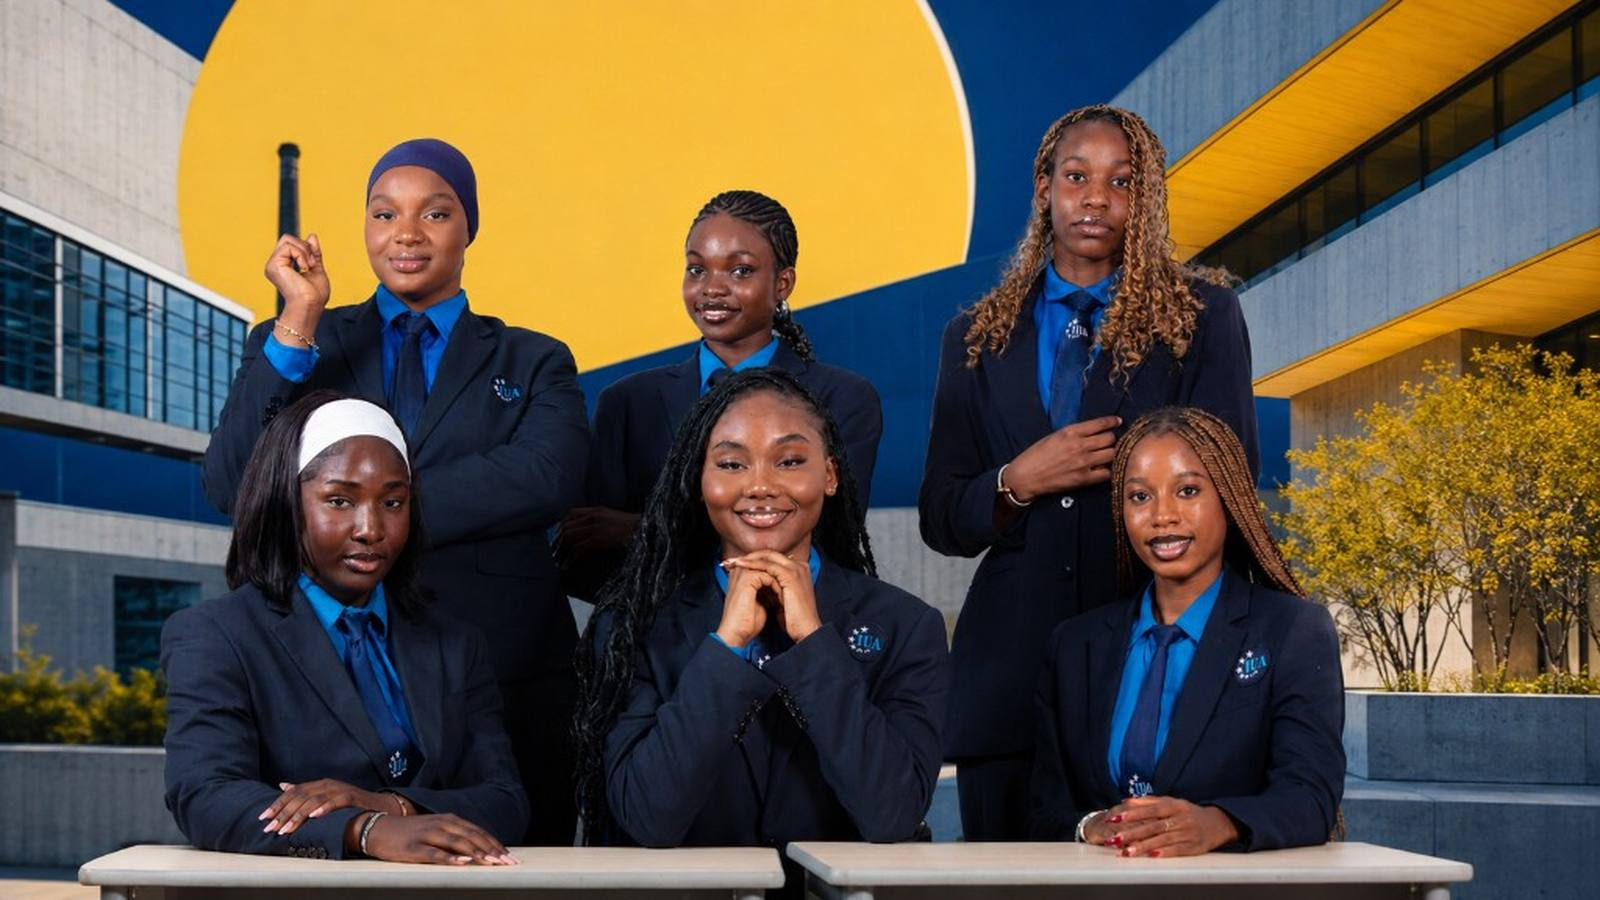
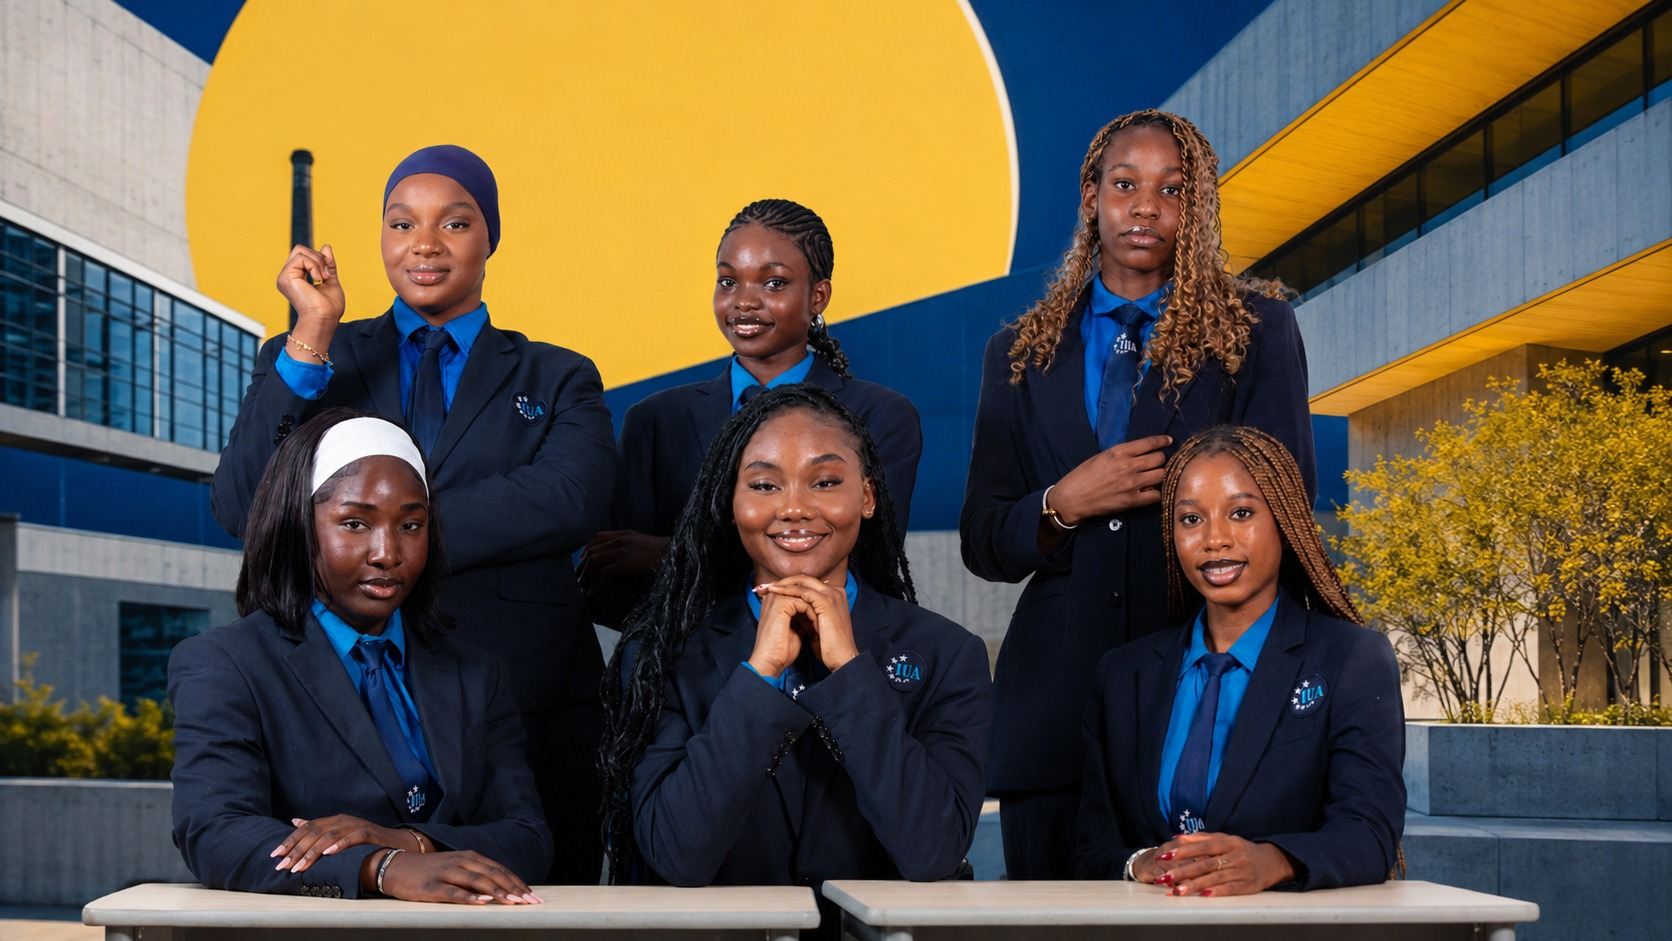
Ajout au read

diff --git a/frontend/src/app/page.tsx b/frontend/src/app/page.tsx
@@ -44,7 +44,7 @@ const ticker = [
 export default function HomePage() {
   return (
     <main>
-      <section className="relative min-h-[100svh] overflow-hidden text-white content-visibility-auto">
+      <section className="relative min-h-[100svh] overflow-hidden text-white">
         <Image
           src="/brand/campus-hero.jpg"
           alt="Étudiantes de l'Institut Universitaire d'Abidjan"
@@ -53,32 +53,32 @@ export default function HomePage() {
           fetchPriority="high"
           placeholder="blur"
           blurDataURL={CAMPUS_HERO_BLUR}
-          className="hero-kenburns object-cover object-[center_20%]"
-          sizes="100vw"
-          quality={65}
+          className="object-cover object-[center_18%]"
+          sizes="(max-width: 768px) 100vw, 100vw"
+          quality={90}
         />
-        <div className="absolute inset-0 bg-gradient-to-r from-iua-navy/93 via-iua-navy/78 to-iua-navy/30" />
-        <div className="absolute inset-0 bg-gradient-to-t from-iua-navy/75 via-transparent to-iua-navy/30" />
-        <div className="glow-orb pointer-events-none absolute -left-20 top-28 h-64 w-64 rounded-full bg-iua-cyan/25 blur-3xl" />
+        {/* Lighter overlay so the photo stays sharp and visible */}
+        <div className="absolute inset-0 bg-gradient-to-r from-iua-navy/80 via-iua-navy/55 to-iua-navy/25" />
+        <div className="absolute inset-0 bg-gradient-to-t from-iua-navy/70 via-transparent to-iua-navy/20" />
 
         <SiteHeader />
 
         <div className="relative mx-auto flex min-h-[100svh] max-w-6xl flex-col justify-end px-6 pb-16 pt-44 sm:justify-center sm:pb-24">
           <Image
-            src="/brand/logo-iua.png"
+            src="/brand/logo-iua-white.png"
             alt="IUA"
-            width={220}
-            height={84}
-            className="mb-8 h-14 w-auto brightness-0 invert sm:h-16 animate-[fadeUp_0.5s_ease_both]"
+            width={240}
+            height={210}
+            className="mb-8 h-16 w-auto sm:h-20 animate-[fadeUp_0.5s_ease_both]"
             priority
           />
           <p className="mb-4 text-xs uppercase tracking-[0.28em] text-iua-cyan animate-[fadeUp_0.55s_ease_both]">
             One University · One Digital Ecosystem
           </p>
-          <h1 className="max-w-2xl font-display text-4xl leading-[1.08] text-balance sm:text-6xl animate-[fadeUp_0.65s_ease_both]">
+          <h1 className="max-w-2xl font-display text-4xl leading-[1.08] text-balance drop-shadow-sm sm:text-6xl animate-[fadeUp_0.65s_ease_both]">
             L&apos;excellence commence avec vous
           </h1>
-          <p className="mt-5 max-w-lg text-base leading-relaxed text-white/80 sm:text-lg animate-[fadeUp_0.75s_ease_both]">
+          <p className="mt-5 max-w-lg text-base leading-relaxed text-white/85 sm:text-lg animate-[fadeUp_0.75s_ease_both]">
             Un seul portail pour candidater, étudier, payer et suivre votre parcours à
             l&apos;Institut Universitaire d&apos;Abidjan.
           </p>
@@ -93,7 +93,7 @@ export default function HomePage() {
             <Link
               href="/connexion"
               prefetch
-              className="rounded-md border border-white/35 bg-white/10 px-6 py-3 text-sm font-semibold text-white backdrop-blur transition hover:bg-white/20"
+              className="rounded-md border border-white/40 bg-white/10 px-6 py-3 text-sm font-semibold text-white backdrop-blur-sm transition hover:bg-white/20"
             >
               Accéder au Digital Campus
             </Link>
@@ -197,11 +197,11 @@ export default function HomePage() {
               src="/brand/campus-hero.jpg"
               alt="Étudiantes IUA"
               width={900}
-              height={640}
+              height={506}
               loading="lazy"
-              quality={60}
+              quality={85}
               sizes="(max-width: 1024px) 100vw, 45vw"
-              className="h-72 w-full object-cover object-top sm:h-80"
+              className="h-72 w-full object-cover object-[center_15%] sm:h-80"
             />
             <div className="absolute inset-x-0 bottom-0 bg-gradient-to-t from-iua-navy/80 to-transparent p-5">
               <p className="text-sm font-medium">Excellence · Professionnalisme · Abidjan</p>

diff --git a/frontend/src/lib/blur.ts b/frontend/src/lib/blur.ts
@@ -1,3 +1,3 @@
-/** Tiny LQIP for hero — keeps LCP fast without extra network roundtrip. */
+/** Tiny LQIP for hero — swapped instantly for the sharp image. */
 export const CAMPUS_HERO_BLUR =
[2 lines of base64/hex data omitted]

diff --git a/frontend/src/app/connexion/page.tsx b/frontend/src/app/connexion/page.tsx
@@ -46,18 +46,18 @@ export default function LoginPage() {
           priority
           placeholder="blur"
           blurDataURL={CAMPUS_HERO_BLUR}
-          quality={55}
-          className="object-cover opacity-45"
+          quality={85}
+          className="object-cover object-[center_18%] opacity-55"
           sizes="50vw"
         />
-        <div className="absolute inset-0 bg-gradient-to-t from-iua-navy via-iua-navy/70 to-iua-navy/40" />
+        <div className="absolute inset-0 bg-gradient-to-t from-iua-navy via-iua-navy/65 to-iua-navy/35" />
         <div className="relative flex h-full flex-col justify-between p-10 text-white">
           <Image
-            src="/brand/logo-iua.png"
+            src="/brand/logo-iua-white.png"
             alt="IUA"
             width={160}
-            height={60}
-            className="h-12 w-auto brightness-0 invert"
+            height={140}
+            className="h-14 w-auto"
             priority
           />
           <div className="animate-[fadeUp_0.5s_ease_both]">
@@ -79,7 +79,7 @@ export default function LoginPage() {
             ← Retour à l&apos;accueil
           </Link>
           <div className="mt-8 lg:hidden">
-            <Image src="/brand/logo-iua.png" alt="IUA" width={140} height={52} className="h-10 w-auto" />
+            <Image src="/brand/logo-iua.png" alt="IUA" width={140} height={120} className="h-12 w-auto" />
           </div>
           <h2 className="mt-6 font-display text-3xl text-iua-navy">Connexion</h2>
           <p className="mt-2 text-sm text-iua-muted">

diff --git a/frontend/src/components/SiteHeader.tsx b/frontend/src/components/SiteHeader.tsx
@@ -28,7 +28,7 @@ export function SiteHeader({ variant = "overlay" }: { variant?: "overlay" | "sol
 
   return (
     <header
-      className={`will-change-transform animate-[fadeUp_0.45s_ease_both] ${
+      className={`animate-[fadeUp_0.45s_ease_both] ${
         solid
           ? "fixed inset-x-0 top-0 z-40 border-b border-iua-navy/10 bg-white/95 shadow-soft backdrop-blur-md"
           : "absolute inset-x-0 top-0 z-40"
@@ -56,13 +56,11 @@ export function SiteHeader({ variant = "overlay" }: { variant?: "overlay" | "sol
       <div className="mx-auto flex max-w-6xl items-center justify-between gap-4 px-6 py-4">
         <Link href="/" className="group flex items-center gap-3">
           <Image
-            src="/brand/logo-iua.png"
+            src={solid ? "/brand/logo-iua.png" : "/brand/logo-iua-white.png"}
             alt="Institut Universitaire d'Abidjan"
-            width={148}
-            height={56}
-            className={`h-11 w-auto transition duration-300 group-hover:scale-[1.03] ${
-              solid ? "" : "brightness-0 invert"
-            }`}
+            width={160}
+            height={140}
+            className="h-11 w-auto transition duration-300 group-hover:scale-[1.03]"
             priority
           />
           <span

diff --git a/frontend/src/components/SiteFooter.tsx b/frontend/src/components/SiteFooter.tsx
@@ -7,11 +7,11 @@ export function SiteFooter() {
       <div className="mx-auto grid max-w-6xl gap-10 px-6 py-14 md:grid-cols-[1.2fr_1fr_1fr]">
         <div>
           <Image
-            src="/brand/logo-iua.png"
+            src="/brand/logo-iua-white.png"
             alt="IUA"
             width={140}
-            height={52}
-            className="h-10 w-auto brightness-0 invert"
+            height={120}
+            className="h-12 w-auto"
             loading="lazy"
           />
           <p className="mt-4 max-w-sm text-sm leading-relaxed text-white/65">

diff --git a/frontend/src/components/PortalShell.tsx b/frontend/src/components/PortalShell.tsx
@@ -58,7 +58,7 @@ export function PortalShell({
               {menuOpen ? "×" : "☰"}
             </button>
             <Link href="/" className="flex items-center gap-3">
-              <Image src="/brand/logo-iua.png" alt="IUA" width={112} height={42} className="h-9 w-auto" />
+              <Image src="/brand/logo-iua.png" alt="IUA" width={112} height={98} className="h-10 w-auto" />
               <span className="hidden text-xs uppercase tracking-[0.16em] text-iua-muted sm:block">
                 Digital Campus
               </span>

diff --git a/frontend/next.config.ts b/frontend/next.config.ts
@@ -7,9 +7,9 @@ const nextConfig: NextConfig = {
   productionBrowserSourceMaps: false,
   images: {
     formats: ["image/avif", "image/webp"],
-    qualities: [55, 60, 65, 75],
+    qualities: [55, 60, 65, 75, 85, 90],
     minimumCacheTTL: 60 * 60 * 24 * 30,
-    deviceSizes: [640, 750, 828, 1080, 1200, 1600],
+    deviceSizes: [640, 750, 828, 1080, 1200, 1600, 1920],
     imageSizes: [16, 32, 48, 64, 96, 128, 256],
   },
   compiler: {
